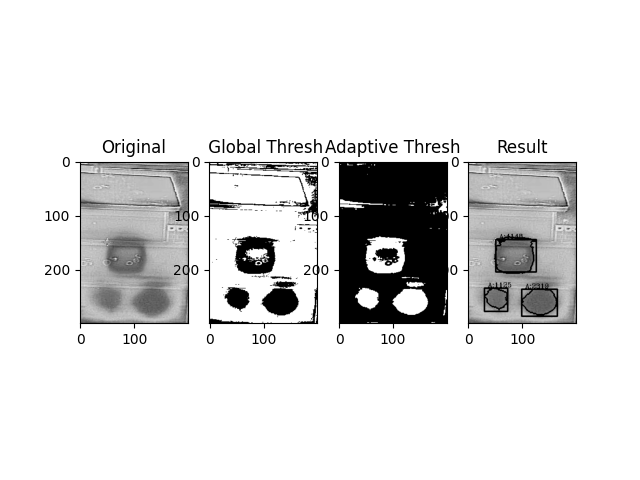
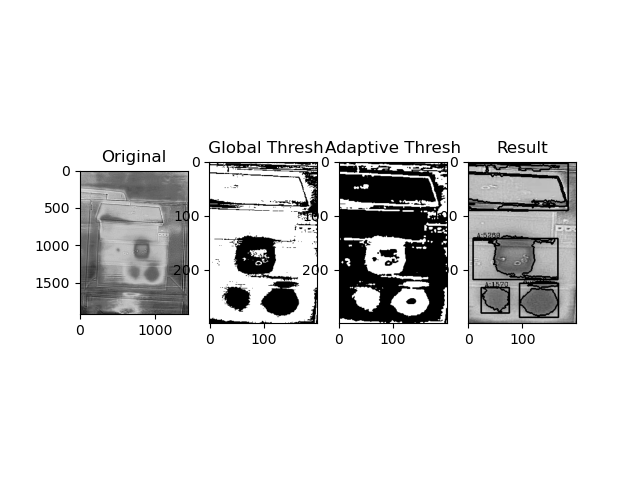
UPDATING ALL CODE FILES IN THE FOLDERS

diff --git a/TASK_3/IR_detection_adaptive.py b/TASK_3/IR_detection_adaptive.py
@@ -1,0 +1,53 @@
+import warnings
+warnings.filterwarnings("ignore")
+import cv2
+import numpy as np
+from draw_contours import getContours
+import matplotlib.pyplot as plt
+import os
+
+# EXTRACT CURRENT WORKING DIRECTORY
+cwd = os.getcwd()
+WORK_DIR = os.path.join(cwd, "TASK_3")
+img_path = os.path.join(WORK_DIR, "Image2.jpg") # CHANGE THE SECOND PARAMETER TO SELECT THE IMAGE
+
+# READ THE ORIGINAL IMAGE TO BE PROCESSED
+src_img = cv2.imread(img_path, 0)
+resize_img = cv2.resize(src_img, (500,500)) # RESIZE THE ORIGINAL IMAGE
+resize_img = resize_img[100:400, 200:400]
+imgContour = resize_img.copy()
+
+# PASS THE ORIGINAL IMAGE TO CLAHE TO EQUALIZE THE IMAGE PIXEL VALUES
+clahe = cv2.createCLAHE(clipLimit=2.0, tileGridSize=(3,3))
+clahe_img = clahe.apply(resize_img)
+
+# PASS THE CLAHE IMAGE THRU FIRST PASS GLOABL THRESHOLDING AND BLUR 
+ret, glob_thresh = cv2.threshold(clahe_img, 115, 255, cv2.THRESH_BINARY)
+blur = cv2.GaussianBlur(glob_thresh, (5, 5), 0)
+
+# PASS THE GLOBALLY THRESHOLDED IMAGE THRU ADAPTIVE THRESHOLD TO FURTHER ENHANCE THE AREAS OF INTEREST
+block_size = 51
+constant = 2
+adap_thresh = cv2.adaptiveThreshold(blur, 255, cv2.ADAPTIVE_THRESH_GAUSSIAN_C, 
+                                cv2.THRESH_BINARY_INV, block_size, constant)
+
+# FUNCTION TO CALCULATE THE AREA OF THE FOUND OBJECTS
+getContours(adap_thresh, imgContour)
+
+# PLOTTING THE RESULTS
+output = [src_img, glob_thresh, adap_thresh, imgContour]
+titles = ['Original', ' Global Thresh', 'Adaptive Thresh', 'Result']
+fig = plt.figure()
+for i in range(len(output)):
+    fig.add_subplot(1, len(output), i+1)
+    plt.imshow(output[i], cmap='gray')
+    plt.title(titles[i])
+
+# SAVING THE OUTPUT IMAGES
+filename = "Final_Image_Image2.jpg" # CHANGE TO DESIRED OUTPUT IMAGE FILENAME
+save_dir = "TASK_3/" + filename
+fig.savefig(save_dir)
+plt.show()
+
+cv2.waitKey()
+cv2.destroyAllWindows()

diff --git a/TASK_2/IR_image_detection_CV.py b/TASK_2/IR_image_detection_CV.py
@@ -1,22 +1,51 @@
+import warnings
+warnings.filterwarnings("ignore")
 import cv2
 from draw_contours import getContours
 import numpy as np
+import matplotlib.pyplot as plt
+import os
 
-src_img = cv2.imread("TASK 2/Science_irhand.jpg")
+# EXTRACT CURRENT WORKING DIRECTORY
+cwd = os.getcwd()
+WORK_DIR = os.path.join(cwd, "TASK_2")
+img_path = os.path.join(WORK_DIR, "Science_irhand.jpg") # CHANGE THE SECOND PARAMETER TO SELECT THE IMAGE
+
+# READ THE ORIGINAL IMAGE TO BE PROCESSED
+src_img = cv2.imread(img_path)
 imgContour = src_img.copy()
+
+# CONVERTING SOURCE IMAGE TO HSV AND GRAY COLOR SPACES
 imghsv = cv2.cvtColor(src_img, cv2.COLOR_BGR2HSV)
 imgGray = cv2.cvtColor(src_img, cv2.COLOR_BGR2GRAY)
 
+# EXTRACTING THE LOWER AND UPPER THRESHOLD VALUES FOR THE AREAS OF INTEREST
 heat_min = np.array([5, 50, 50], np.uint8)
 heat_max = np.array([30, 255, 255], np.uint8)
+# CREATING COLOR MASK, IN THIS CASE THE COLOR IS ORANGE
 orange_filter = cv2.inRange(imghsv, heat_min, heat_max)
 
+# DILATING THE CREATED COLOR MASK
 kernel = np.ones((5,5))
 imgDilate = cv2.dilate(orange_filter, kernel=kernel)
 
+# FUNCTION TO CALCULATE THE AREA OF THE FOUND OBJECTS
 getContours(imgDilate, imgContour)
-results = cv2.hconcat([src_img, imgContour])
 
-cv2.imshow("FINAL", results)
+# PLOTTING THE RESULTS
+output = [src_img, imgContour]
+titles = ["Original", "Final Objects"]
+fig = plt.figure()
+for i in range(len(output)):
+    fig.add_subplot(1, len(output), i+1)
+    plt.imshow(output[i], cmap="gray")
+    plt.title(titles[i])
+
+# SAVING THE OUTPUT IMAGES
+filename = "Final_Image.jpg" # CHANGE TO DESIRED OUTPUT IMAGE FILENAME
+save_dir = "TASK_2/" + filename
+fig.savefig(save_dir)
+plt.show()
+
 cv2.waitKey()
 cv2.destroyAllWindows()

diff --git a/TASK_1/canny_opencv.py b/TASK_1/canny_opencv.py
@@ -1,19 +1,44 @@
+import warnings
+warnings.filterwarnings("ignore")
 import cv2
 import numpy as np
 from draw_contours import getContours
+import matplotlib.pyplot as plt
+import os
+
+# EXTRACT CURRENT WORKING DIRECTORY
+cwd = os.getcwd()
+WORK_DIR = os.path.join(cwd, "TASK_1")
+img_path = os.path.join(WORK_DIR, "image4.jpg") # CHANGE THE SECOND PARAMETER TO SELECT THE IMAGE
 
 # READ THE ORIGINAL IMAGE TO BE PROCESSED
-img = cv2.imread("TASK 1/image1.jpg")
+img = cv2.imread(img_path)
 imgContour = img.copy()
+
+# IMAGE BLURRING, COLOR CONVERSION, CANNY EDGE DETECTION
 imgBlur = cv2.GaussianBlur(img, (5, 5), 1)
 imgGray = cv2.cvtColor(imgBlur, cv2.COLOR_BGR2GRAY)
-
 imgCanny = cv2.Canny(imgGray, 100, 300)
 
+# DILATE THE CANNY EDGES TO CREATE A MASK
 kernel = np.ones((5,5))
 imgDilate = cv2.dilate(imgCanny, kernel=kernel)
-getContours(imgDilate, imgContour)
+getContours(imgDilate, imgContour) # FUNCTION TO CALCULATE THE AREA OF THE FOUND OBJECTS
 
-results = cv2.hconcat([img, imgContour])
-cv2.imshow("RESULTS", results)
+# PLOTTING THE RESULTS
+output = [img, imgDilate, imgContour]
+titles = ["Original", "Mask", "Final Objects"]
+fig = plt.figure()
+for i in range(len(output)):
+    fig.add_subplot(1, len(output), i+1)
+    plt.imshow(output[i], cmap='gray')
+    plt.title(titles[i])
+
+# SAVING THE OUTPUT IMAGES
+filename = "Final_Image2.jpg" # CHANGE TO DESIRED OUTPUT IMAGE FILENAME
+save_dir = "TASK_1/" + filename
+fig.savefig(save_dir)
+plt.show()
+
 cv2.waitKey()
+cv2.destroyAllWindows()

diff --git a/TASK_3/test2.py b/TASK_3/test2.py
@@ -3,9 +3,8 @@ from cv2 import drawContours
 import numpy as np
 from draw_contours import getContours
 import matplotlib.pyplot as plt
-from PIL import Image
 
-src_img = cv2.imread("TASK_2/Science_irhand.jpg")
+src_img = cv2.imread("TASK_3/Image2.jpg")
 
 correct_gray = cv2.cvtColor(src_img, cv2.COLOR_BGR2LUV)
 imgContoor = correct_gray.copy()

diff --git a/TASK_3/draw_contours.py b/TASK_3/draw_contours.py
@@ -5,7 +5,7 @@ def getContours(img, imgContour):
     black = (0,0,0)
     for c in contours:
         area = cv2.contourArea(c)
-        if 900 < area < 6000:
+        if 900 < area < 5800:
             cv2.drawContours(imgContour, c, -1, black, 2)
             p = cv2.arcLength(c, True)
             appr = cv2.approxPolyDP(c, 0.02 * p, True)
